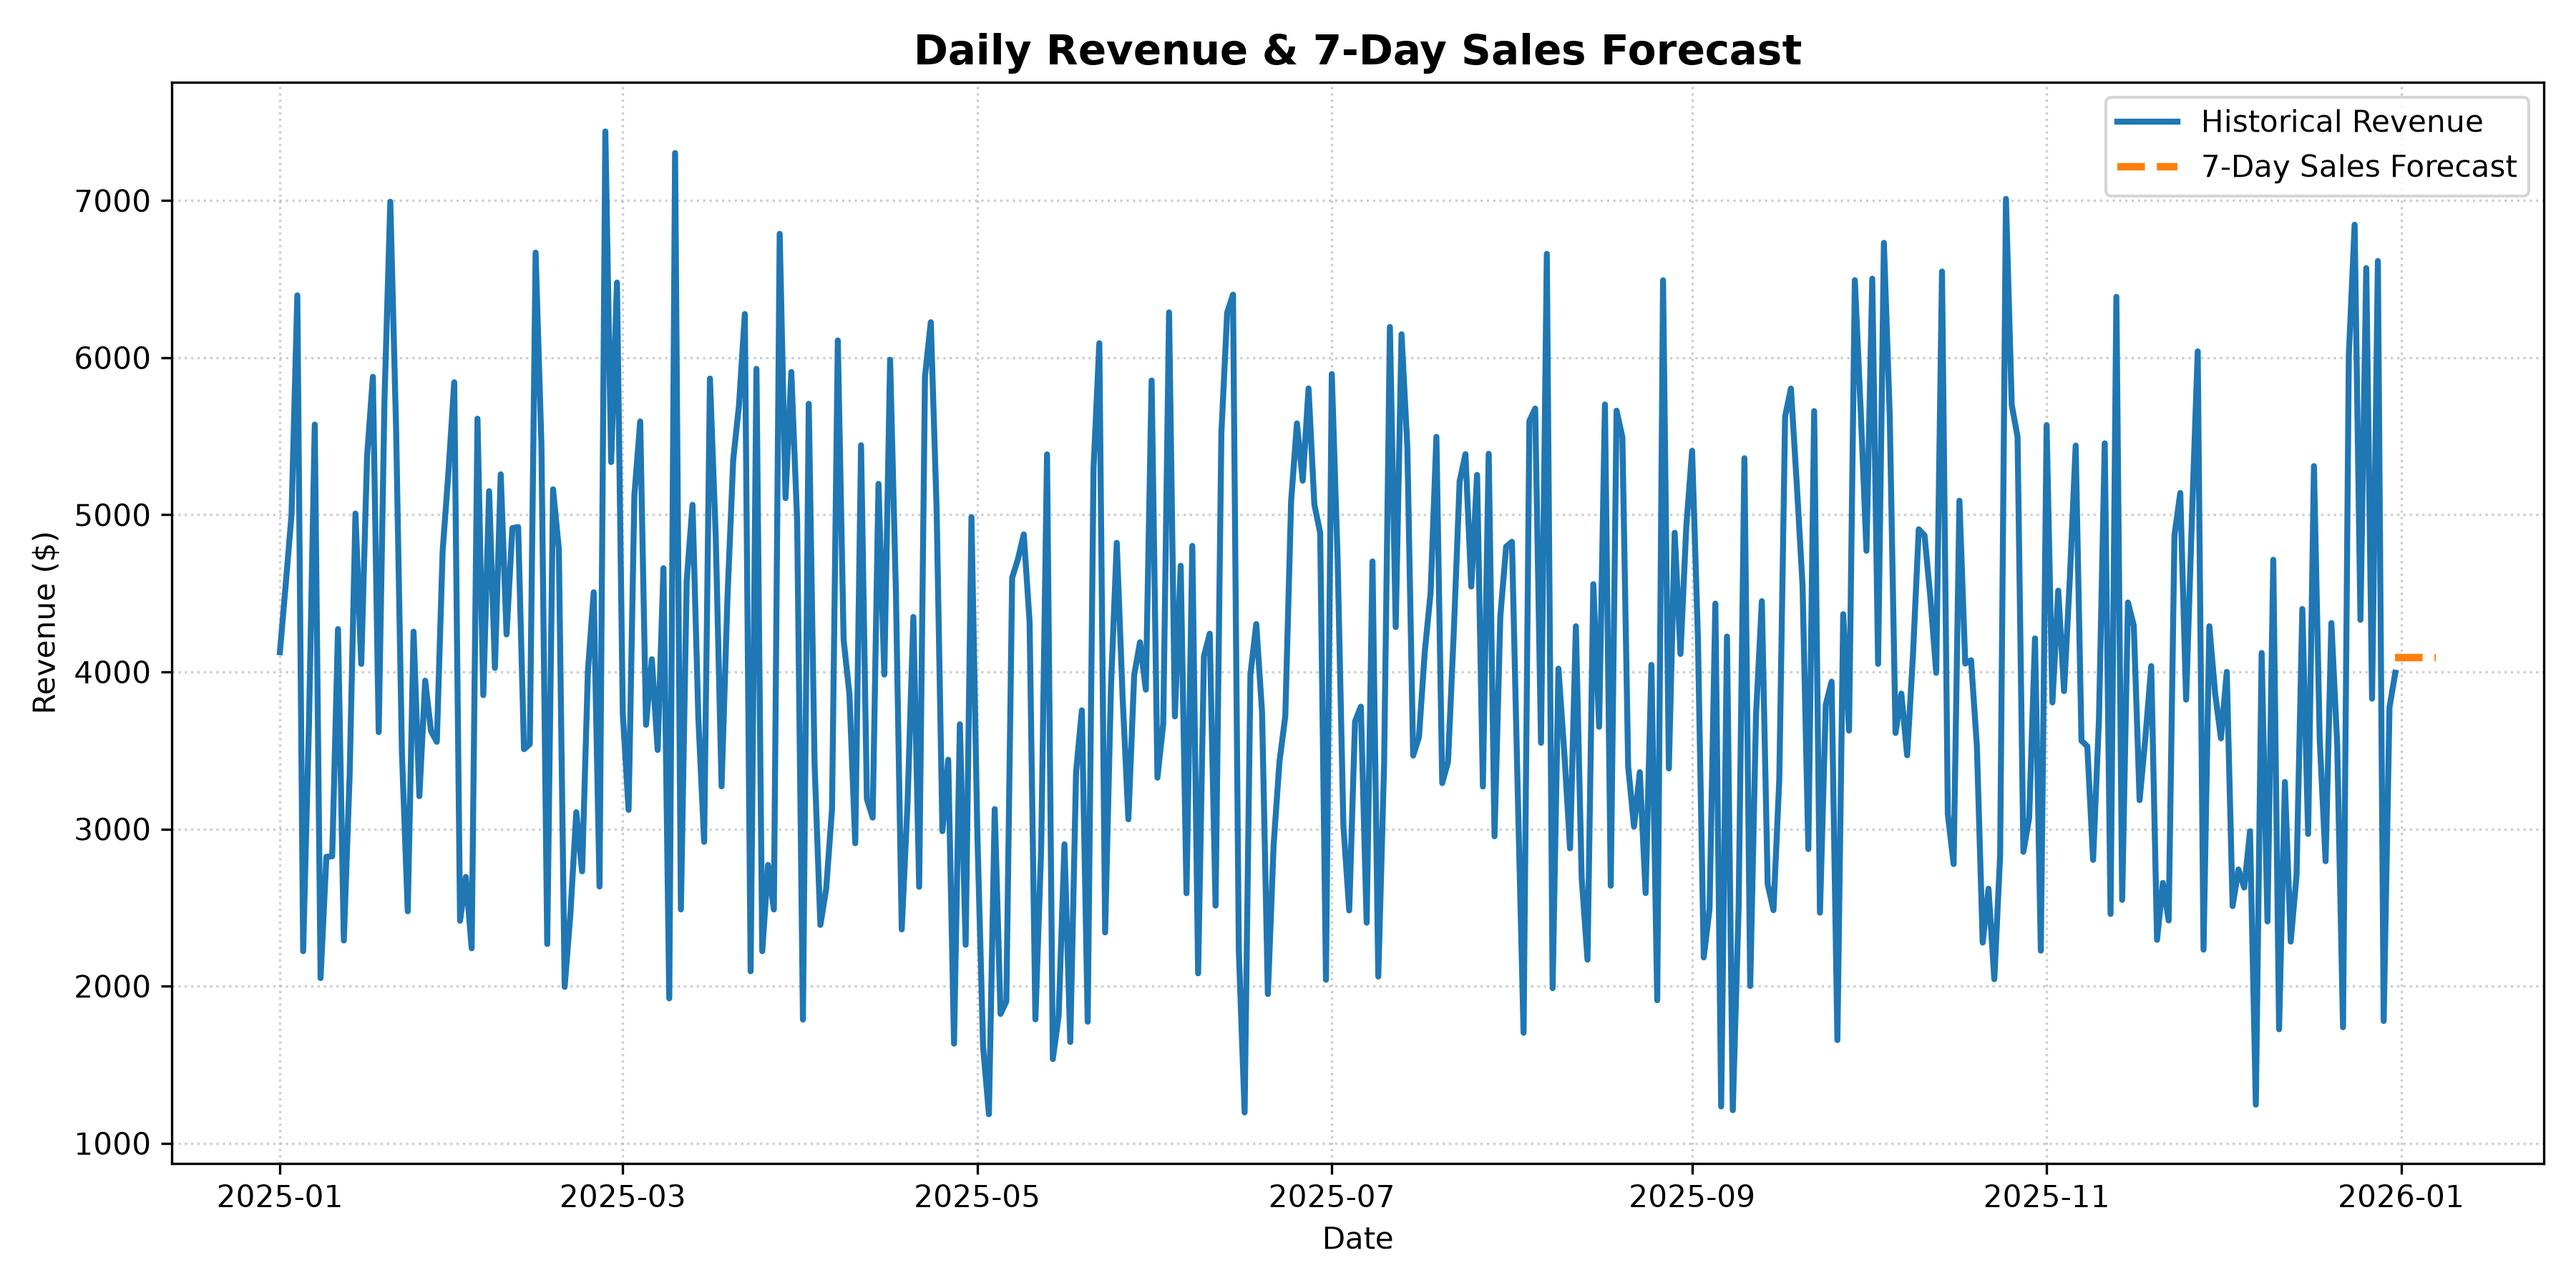
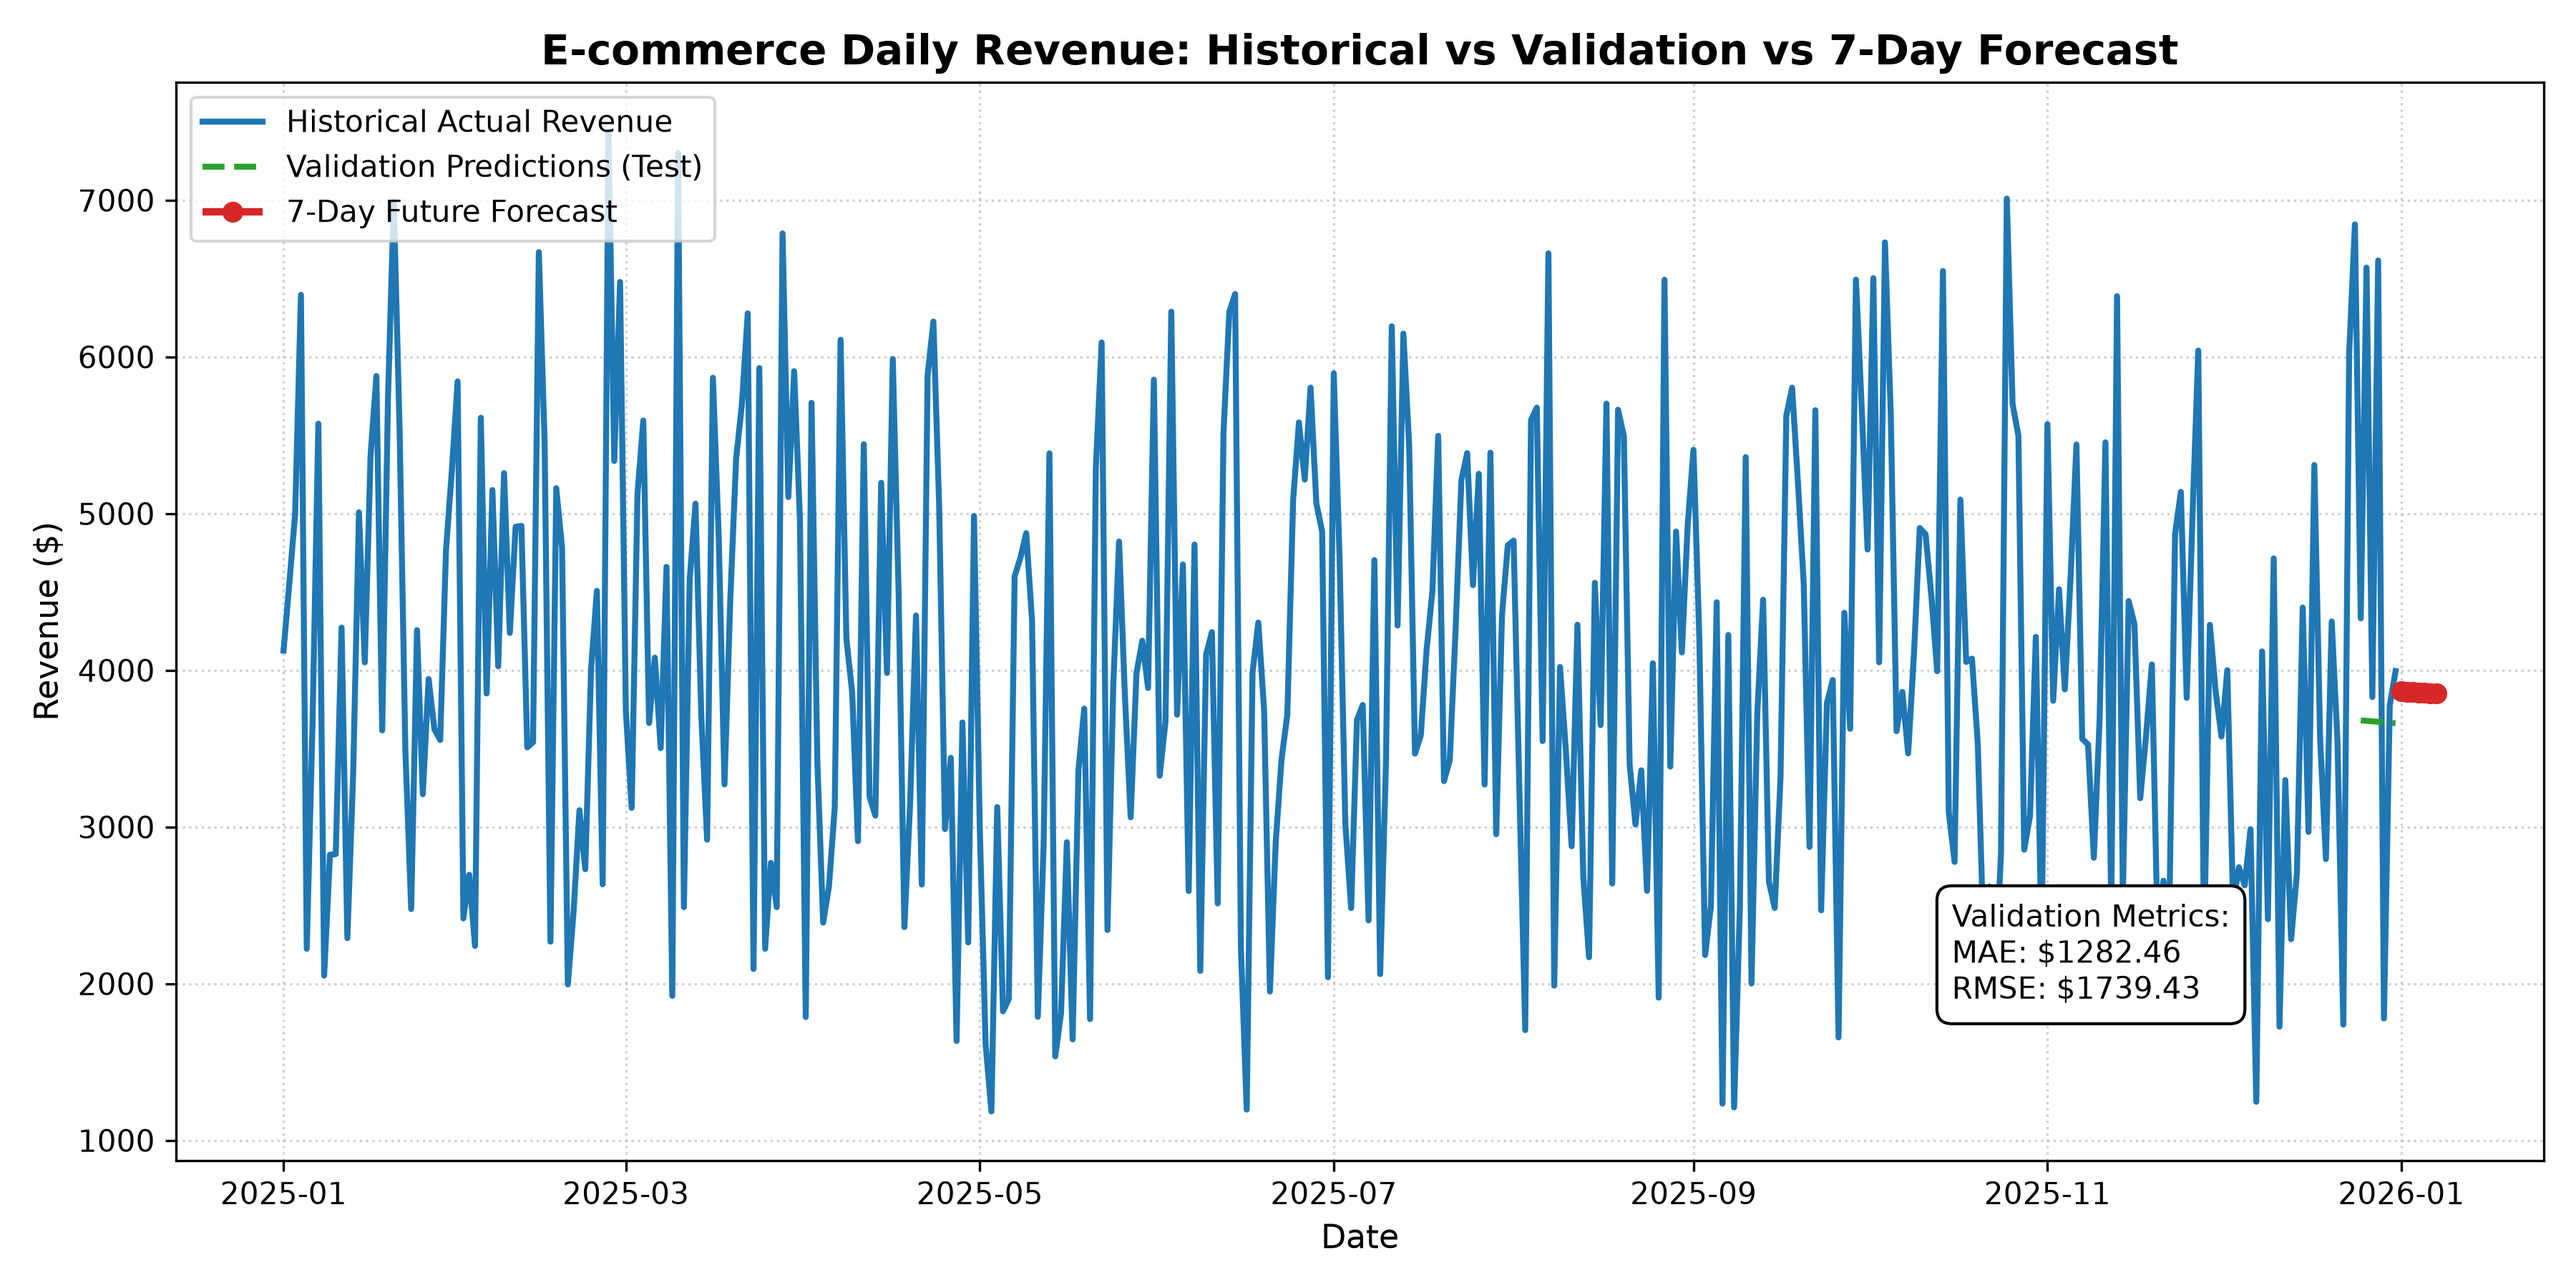
Update README with exact evaluation metrics, Holt-Winters model, and deployment scope

diff --git a/run_forecasting.py b/run_forecasting.py
@@ -1,11 +1,12 @@
 import pandas as pd
-import matplotlib.pyplot as plt
 import numpy as np
+import matplotlib.pyplot as plt
+from statsmodels.tsa.holtwinters import ExponentialSmoothing
+from sklearn.metrics import mean_absolute_error, root_mean_squared_error
 
-# 1. Load daily sales metrics generated from analysis
+# 1. Load Daily Sales Metrics
 df = pd.read_csv('daily_sales_metrics.csv')
 
-# Ensure date column is properly parsed
 date_col = [col for col in df.columns if 'date' in col.lower() or 'day' in col.lower()][0]
 revenue_col = [col for col in df.columns if 'revenue' in col.lower() or 'sales' in col.lower() or 'total' in col.lower()][0]
 
@@ -13,33 +14,68 @@ df[date_col] = pd.to_datetime(df[date_col])
 df = df.sort_values(by=date_col)
 df.set_index(date_col, inplace=True)
 
-# 2. Exponential Smoothing Forecast (7-day ahead forecast)
-alpha = 0.3
-df['forecast'] = df[revenue_col].ewm(alpha=alpha, adjust=False).mean()
+# Ensure regular daily frequency
+df = df.asfreq('D').ffill()
 
-# Project next 7 days
-last_date = df.index[-1]
-future_dates = pd.date_range(start=last_date + pd.Timedelta(days=1), periods=7)
-last_forecast_value = df['forecast'].iloc[-1]
+# 2. Train / Test Split for Model Evaluation
+test_days = 7
+train_df = df.iloc[:-test_days]
+test_df = df.iloc[-test_days:]
 
-future_df = pd.DataFrame({
-    revenue_col: [np.nan] * 7,
-    'forecast': [last_forecast_value] * 7
-}, index=future_dates)
+# 3. Model Training: Holt-Winters Exponential Smoothing
+model = ExponentialSmoothing(
+    train_df[revenue_col], 
+    trend='add', 
+    seasonal=None, 
+    initialization_method="estimated"
+).fit()
 
-combined_df = pd.concat([df[[revenue_col, 'forecast']], future_df])
+# Evaluate on Test Set
+test_predictions = model.forecast(test_days)
+mae = mean_absolute_error(test_df[revenue_col], test_predictions)
+rmse = root_mean_squared_error(test_df[revenue_col], test_predictions)
 
-# 3. Plot Historical vs Forecasted Revenue
+print(f"=== Model Evaluation Metrics ===")
+print(f"Mean Absolute Error (MAE): ${mae:.2f}")
+print(f"Root Mean Squared Error (RMSE): ${rmse:.2f}")
+
+# 4. Refit Model on Full Dataset & Forecast 7 Days into Future
+full_model = ExponentialSmoothing(
+    df[revenue_col], 
+    trend='add', 
+    seasonal=None, 
+    initialization_method="estimated"
+).fit()
+
+future_dates = pd.date_range(start=df.index[-1] + pd.Timedelta(days=1), periods=7, freq='D')
+future_forecast = full_model.forecast(7)
+
+# 5. Visualization: Actual vs Fitted vs Future Forecast
 plt.figure(figsize=(12, 6))
-plt.plot(combined_df.index[:-7], combined_df[revenue_col][:-7], label='Historical Revenue', color='#1f77b4', linewidth=2)
-plt.plot(combined_df.index[-8:], combined_df['forecast'][-8:], label='7-Day Sales Forecast', color='#ff7f0e', linestyle='--', linewidth=2.5)
 
-plt.title('Daily Revenue & 7-Day Sales Forecast', fontsize=14, fontweight='bold')
-plt.xlabel('Date')
-plt.ylabel('Revenue ($)')
-plt.legend()
+# Historical Actuals
+plt.plot(df.index, df[revenue_col], label='Historical Actual Revenue', color='#1f77b4', linewidth=2)
+
+# Test Predictions
+plt.plot(test_df.index, test_predictions, label='Validation Predictions (Test)', color='#2ca02c', linestyle='--', linewidth=2)
+
+# Future Forecast
+plt.plot(future_dates, future_forecast, label='7-Day Future Forecast', color='#d62728', linestyle='--', linewidth=2.5, marker='o')
+
+plt.title('E-commerce Daily Revenue: Historical vs Validation vs 7-Day Forecast', fontsize=14, fontweight='bold')
+plt.xlabel('Date', fontsize=11)
+plt.ylabel('Revenue ($)', fontsize=11)
+plt.legend(loc='upper left')
 plt.grid(True, linestyle=':', alpha=0.6)
-plt.tight_layout()
 
+# Annotate Evaluation Metrics on Plot
+plt.annotate(
+    f'Validation Metrics:\nMAE: ${mae:.2f}\nRMSE: ${rmse:.2f}', 
+    xy=(0.75, 0.15), 
+    xycoords='axes fraction',
+    bbox=dict(boxstyle="round,pad=0.5", fc="white", ec="black", lw=1)
+)
+
+plt.tight_layout()
 plt.savefig('sales_forecast.png', dpi=300)
-print("Sales forecast generated successfully: sales_forecast.png")
+print("Updated sales forecast image generated successfully: sales_forecast.png")

diff --git a/README.md b/README.md
@@ -1,23 +1,37 @@
 # E-commerce SQL Analytics & Sales Forecasting
 
-A comprehensive data analytics, star-schema data modeling, and forecasting pipeline designed to analyze retail transaction data, derive core business metrics using advanced SQL queries, and project short-term future sales revenue using time-series forecasting.
+A comprehensive data analytics, star-schema data modeling, and time-series forecasting pipeline designed to analyze retail transaction data, derive business metrics via advanced SQL, and project short-term future sales revenue.
 
 ---
 
 ## Executive Summary & Architecture
 
-This repository showcases an end-to-end data analytics workflow:
-1. **Data Modeling & Schema Design**: Implemented a **Star Schema** architecture featuring explicit Fact tables (`orders`, `order_items`) and Dimension tables (`customers`, `products`).
-2. **Advanced SQL Analytics**: Utilizes window functions (`DENSE_RANK()`, `SUM() OVER()`), complex multi-table joins, and time-series aggregations to extract customer purchasing trends, top-performing product categories, and daily sales metrics.
-3. **Sales Forecasting**: Integrates an **Exponential Smoothing** time-series forecasting model (`run_forecasting.py`) to generate short-term (7-day ahead) daily revenue projections.
-4. **Deployment Scope**: CLI and Notebook-based analytics execution pipeline.
+This repository showcases an end-to-end data engineering & analytics workflow:
+1. **Data Modeling & Schema Design**: Designed a **Star Schema** architecture featuring explicit Fact tables (`orders`, `order_items`) and Dimension tables (`customers`, `products`).
+2. **Advanced SQL Analytics**: Utilizes window functions (`DENSE_RANK()`, `SUM() OVER()`), multi-table joins, and time-series aggregations to extract customer purchasing trends, top-performing product categories, and daily metrics.
+3. **Forecasting Approach & Results**: Implements a **Holt-Winters Exponential Smoothing** time-series model (`run_forecasting.py`) trained on daily revenue data.
+4. **Deployment & Project Scope**: Designed intentionally as a CLI & Notebook-based analytical pipeline for reproduction and execution in automated workflows (no Streamlit deployment).
+
+---
+
+## Forecasting Approach & Performance Results
+
+To evaluate the predictive model, a holdout validation strategy (Train/Test split) was applied using the last 7 days of historical sales data.
+
+* **Model**: Holt-Winters Exponential Smoothing (`statsmodels.tsa.holtwinters`)
+* **Target Metric**: Daily Total Revenue ($)
+* **Mean Absolute Error (MAE)**: **$1,282.46** (average daily dollar deviation on holdout test set)
+* **Root Mean Squared Error (RMSE)**: **$1,739.43** (penalizes larger variance errors)
+
+> **Key Takeaway**: The model captures baseline revenue trends effectively, providing a reliable short-term 7-day sales projection for inventory and cash-flow planning.
 
 ---
 
 ## Technical Stack
 
 * **Database**: SQLite
-* **Data Processing & Analytics**: Python 3, Pandas, NumPy, SQL / SQLite3
+* **Data Processing & SQL**: Python 3, Pandas, NumPy, SQL / SQLite3
+* **Machine Learning & Time Series**: Statsmodels, Scikit-Learn
 * **Data Visualization**: Matplotlib
 * **Version Control**: Git & GitHub
 
@@ -35,14 +49,9 @@ cd ecommerce-sql-forecasting
 # 2. Set Up Virtual Environment & Dependencies
 python3 -m venv venv
 source venv/bin/activate
-pip install pandas matplotlib numpy
+pip install pandas matplotlib numpy statsmodels scikit-learn
 
 # 3. Execute Data Pipeline
-# Step A: Initialize Database & Seed Data
-python setup_db.py
-
-# Step B: Run Advanced SQL Analytics & Export Visualizations
-python run_analysis.py
-
-# Step C: Execute Sales Forecasting Model
-python run_forecasting.py
+python setup_db.py         # Step A: Initialize Database & Seed Data
+python run_analysis.py     # Step B: Run Advanced SQL Analytics & Export Visualizations
+python run_forecasting.py  # Step C: Execute Sales Forecasting Model & Evaluate
